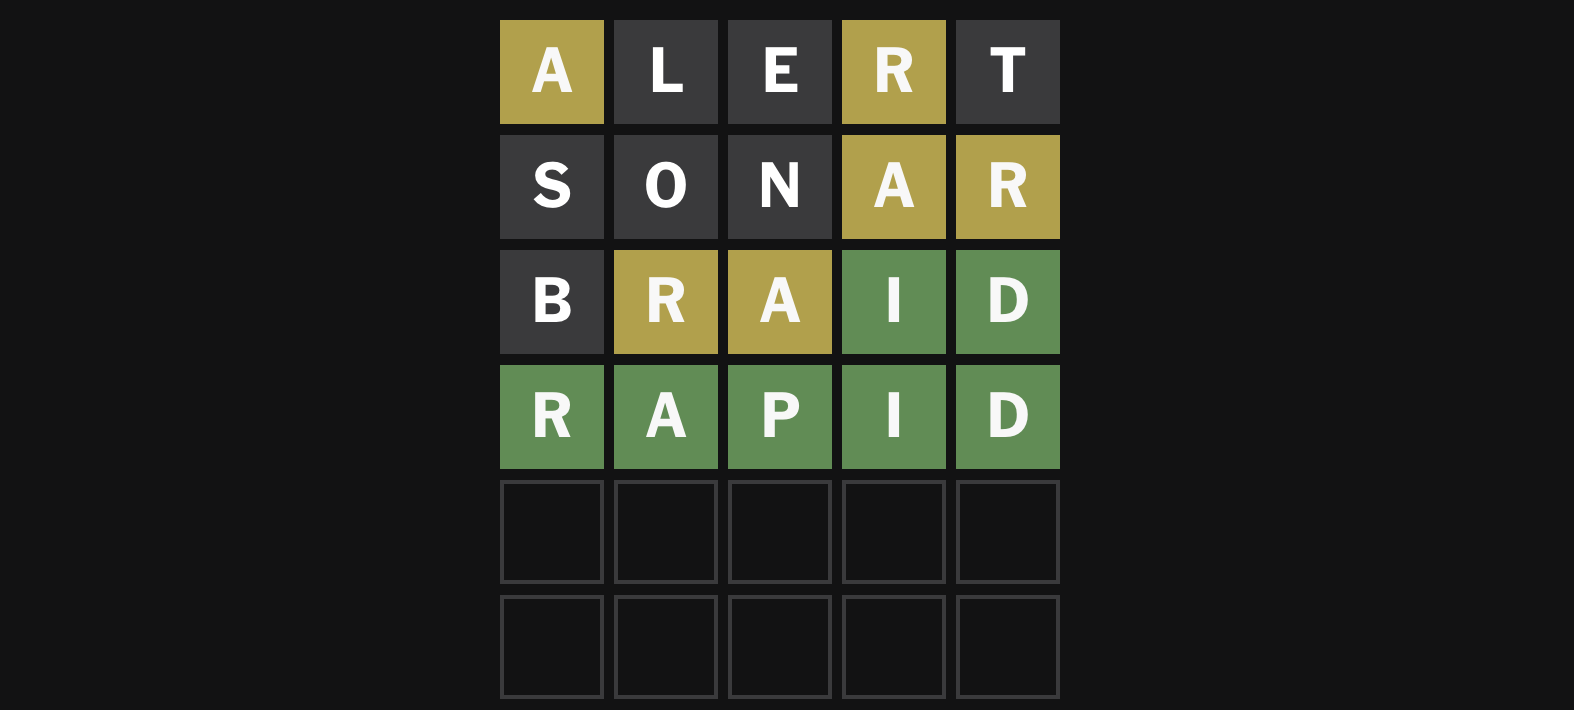
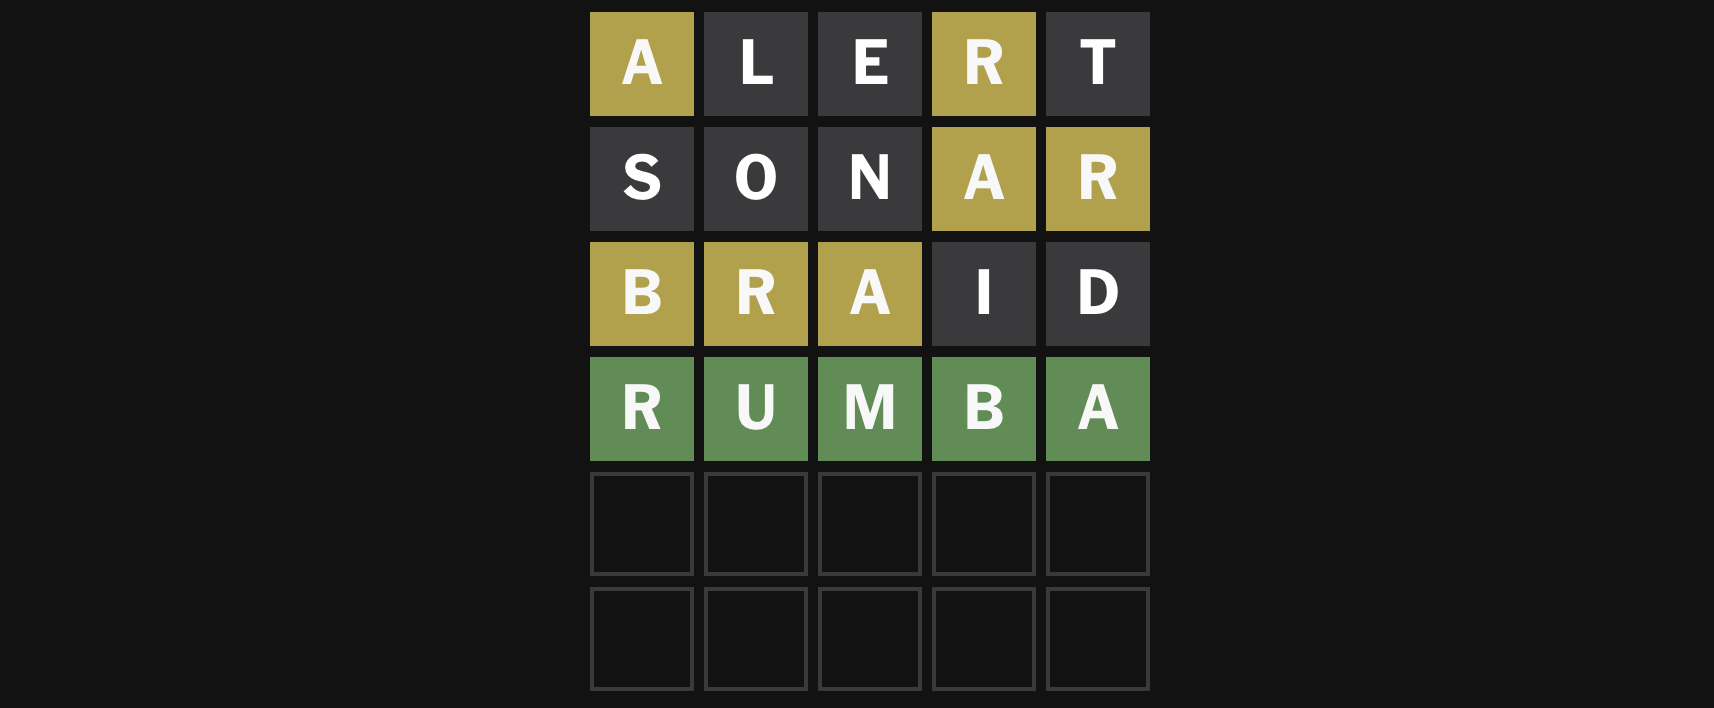
Better README.

Changed region(s): [[0.3113, 0.0, 0.6849, 0.9944]]

diff --git a/README.md b/README.md
@@ -36,9 +36,12 @@ Enter input: 10010
 Suggestion: sonar 
 Enter input: 00011
 Suggestion: braid 
-Enter input: 01122
-Suggestion: rapid
+Enter input: 11100
+Suggestion: rumba 
 ...
+
+No need to enter any more input as it's been solved!
+
 ```
 
 ## How it works
@@ -50,7 +53,8 @@ This would be trivial to filter for, using a script.
 Unfortunately this was extremely hard to find, as many of the dictionary lists available online are filled with non-words 
 and special characters, as they are typically used for password cracking.
 
-I found a list of 5 letter words that wordle uses here:
+I found a list of 5 letter words that wordle uses here, I'm not sure whether this is all of the 5 letter words in the English
+dictionary or not:
 
 [Wordle list](https://gist.githubusercontent.com/cfreshman/a03ef2cba789d8cf00c08f767e0fad7b/raw/28804271b5a226628d36ee831b0e36adef9cf449/wordle-answers-alphabetical.txt)
 
